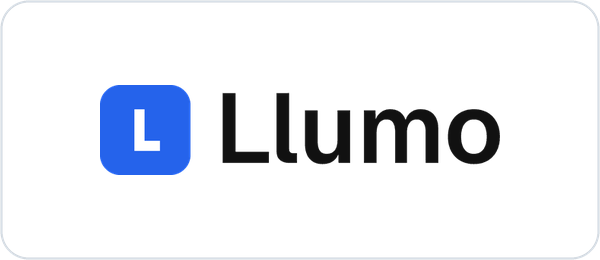
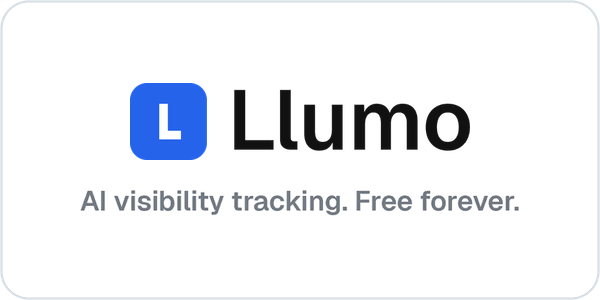
add sponsor taglines and widen README sponsor cards

diff --git a/README.md b/README.md
@@ -175,8 +175,8 @@ A web app serves the dashboard and REST API, a worker schedules and executes pro
 ## Sponsors
 
 <p align="left">
-  <a href="https://www.llumohq.com/"><img src=".github/sponsors/llumo.png" alt="Llumo" width="140"></a>
-  <a href="https://www.searchapi.io/?ref=elmo"><img src=".github/sponsors/searchapi.png" alt="SearchApi" width="140"></a>
+  <a href="https://www.llumohq.com/"><img src=".github/sponsors/llumo.png" alt="Llumo" width="210"></a>
+  <a href="https://www.searchapi.io/?ref=elmo"><img src=".github/sponsors/searchapi.png" alt="SearchApi" width="210"></a>
 </p>
 
 <a href="https://github.com/sponsors/elmohq"><strong>Become a sponsor →</strong></a>
